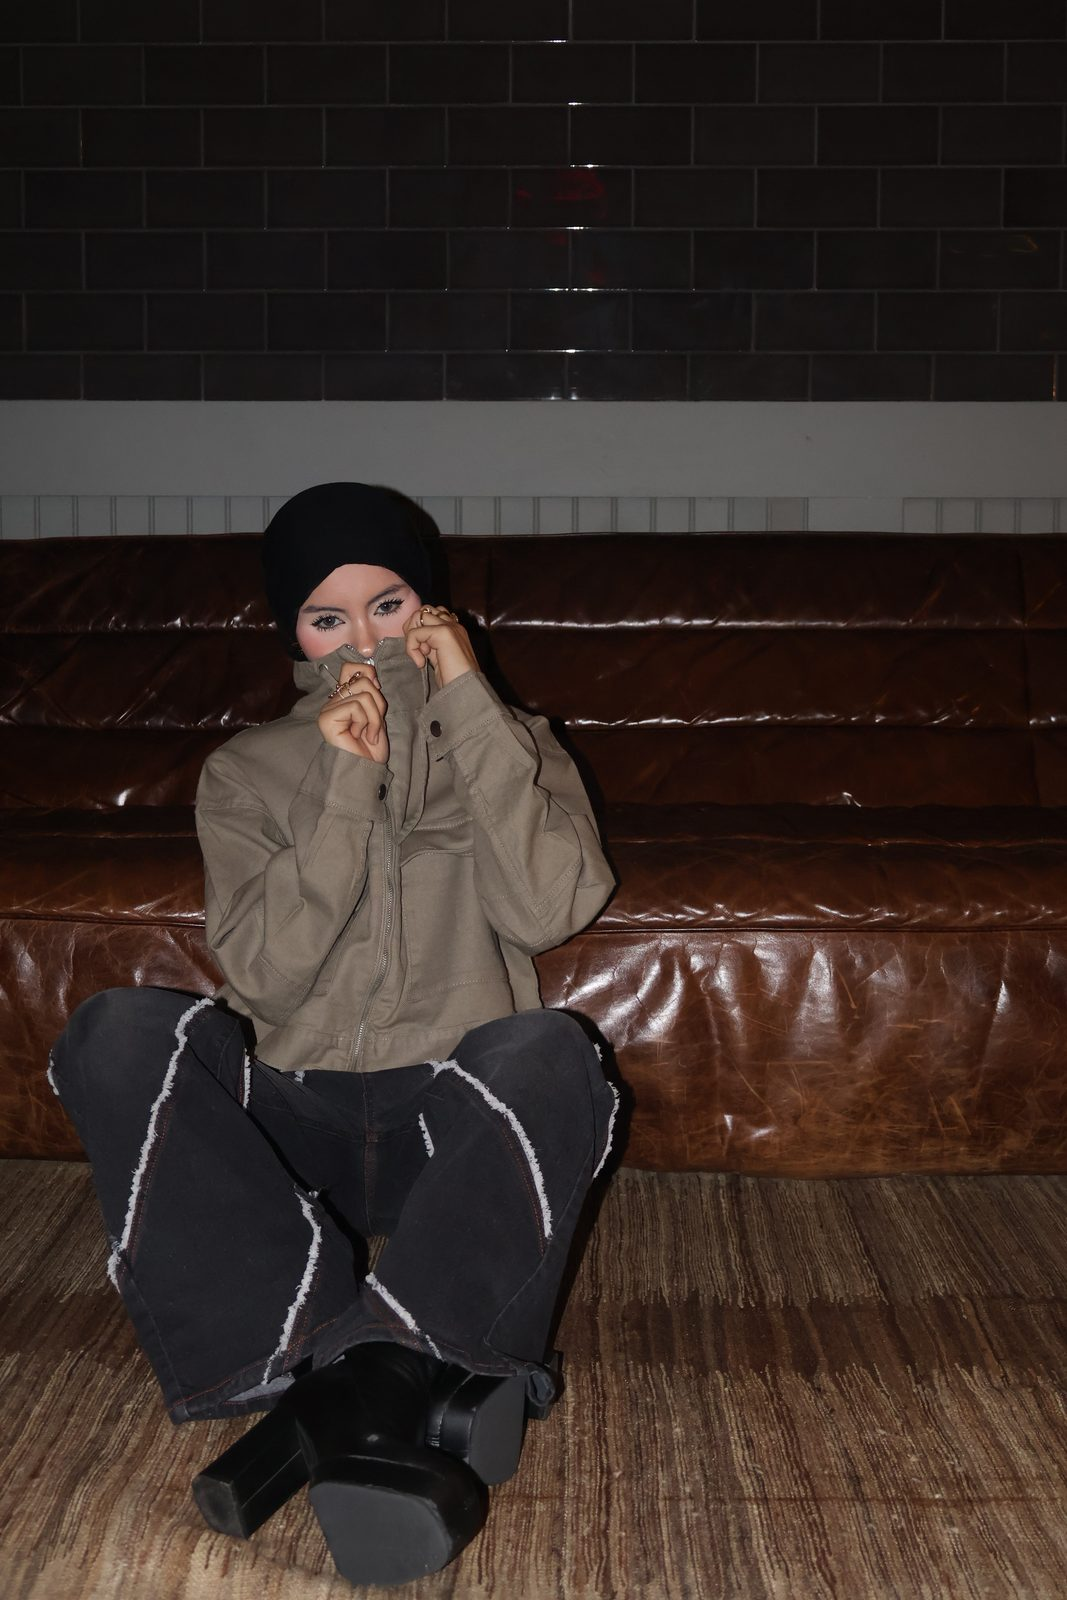
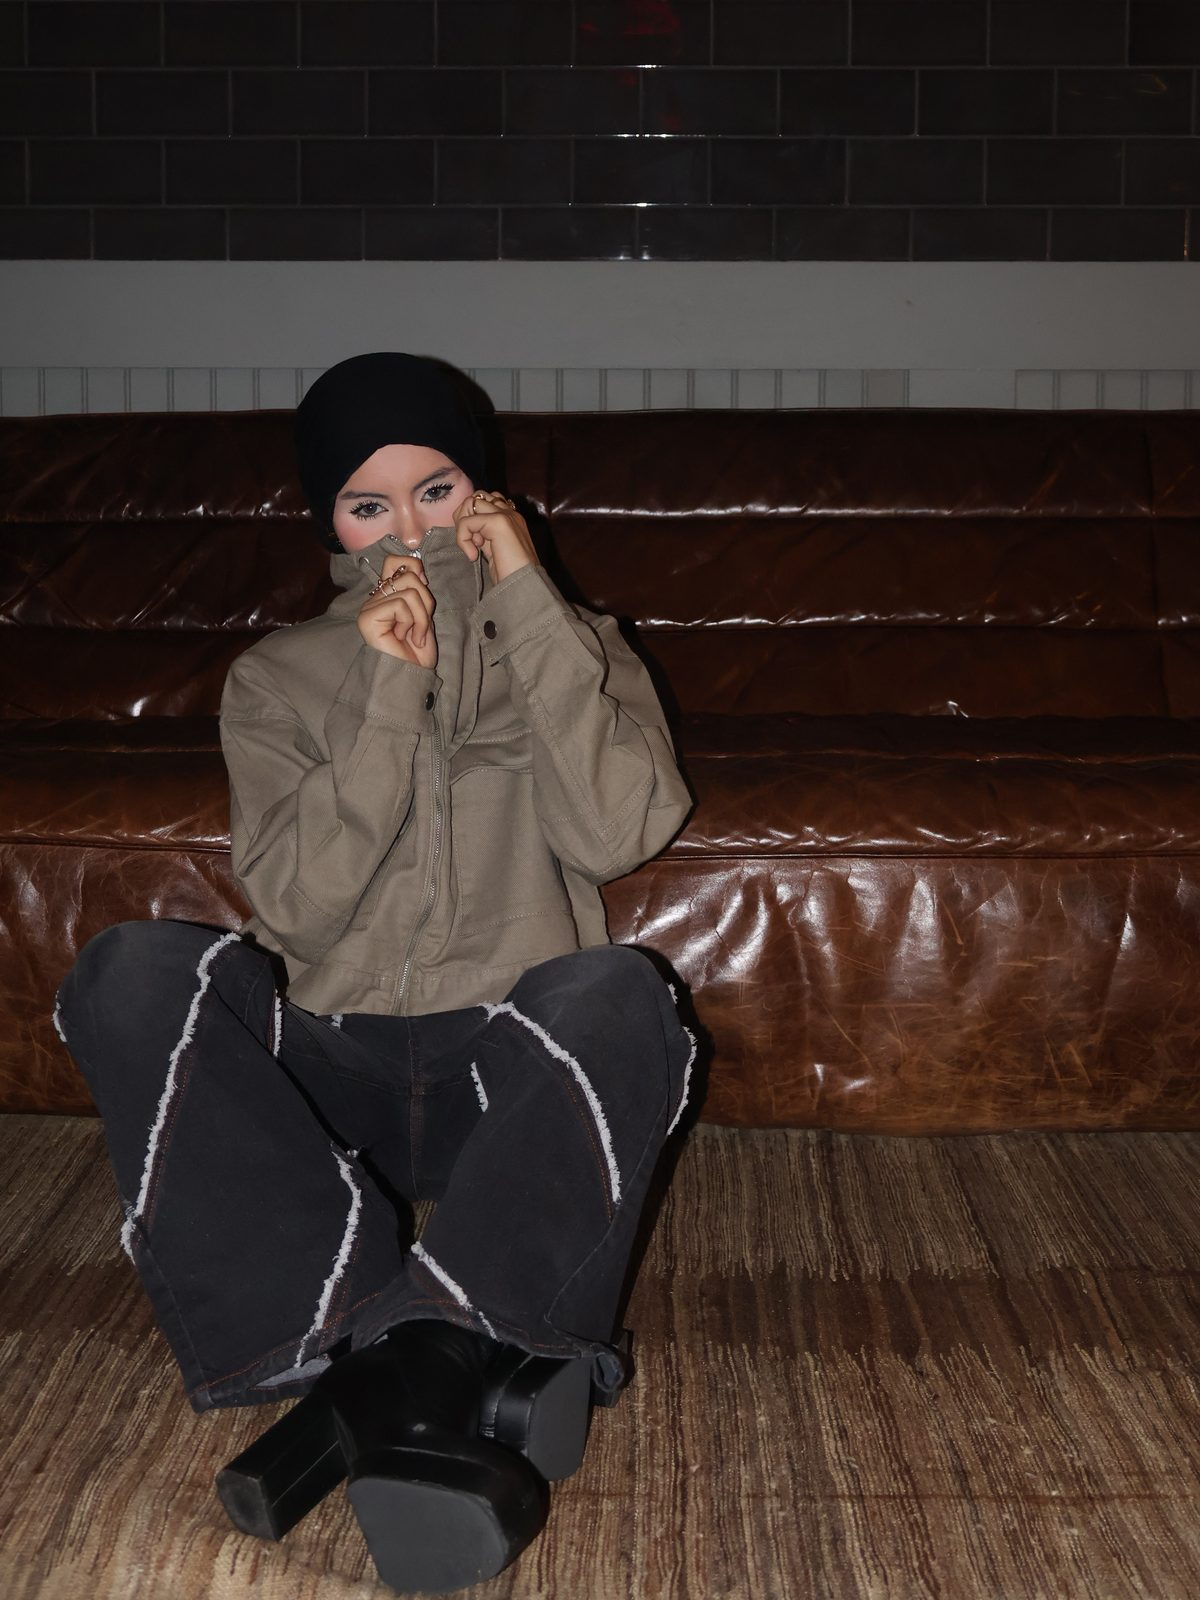
Home carousel: every photo exactly 3:4
Crop IMG_0447 to 3:4 (subject kept centered), trim two Pull&Bear photos
by a pixel to exact 3:4, and keep the 3:4 shape on phones so photos no
longer stretch to the column height.

Claude-Session: https://claude.ai/code/session_012XeHsNCsxQhTQRDgts5yE7

diff --git a/src/data/home.ts b/src/data/home.ts
@@ -1,6 +1,6 @@
 // Photos for the scrolling column on the home page (files in public/home/).
 // Order rotates: MAD Fashion (Madrid) -> Pull&Bear editorial -> NYU FBA show.
-// All photos are cropped 3:4 with the subject centered, except IMG_0447.
+// Every photo is exactly 3:4, cropped with the subject centered.
 
 export type Panel =
   | { type: "image"; src: string; alt: string; width?: number; height?: number }
@@ -8,8 +8,8 @@ export type Panel =
 
 export const PANELS: Panel[] = [
   { type: "image", src: "/home/mg-2502.jpg", alt: "MAD Fashion show, Madrid: model in an oversized black leather jacket", width: 1200, height: 1600 },
-  { type: "image", src: "/home/pullbear-25.jpg", alt: "Pull&Bear editorial: tan washed jacket with wide leg jeans", width: 1015, height: 1354 },
-  { type: "image", src: "/home/img-0447.jpg", alt: "NYU FBA fashion show: model seated on a leather sofa in an olive jacket", width: 1067, height: 1600 },
+  { type: "image", src: "/home/pullbear-25.jpg", alt: "Pull&Bear editorial: tan washed jacket with wide leg jeans", width: 1014, height: 1352 },
+  { type: "image", src: "/home/img-0447.jpg", alt: "NYU FBA fashion show: model seated on a leather sofa in an olive jacket", width: 1200, height: 1600 },
 
   { type: "image", src: "/home/mg-2693.jpg", alt: "MAD Fashion show, Madrid: model in a cropped sage green jacket", width: 1200, height: 1600 },
   { type: "image", src: "/home/pullbear-34.jpg", alt: "Pull&Bear editorial: pink cropped jacket and mini skirt set", width: 1008, height: 1344 },
@@ -20,5 +20,5 @@ export const PANELS: Panel[] = [
   { type: "image", src: "/home/img-0594.jpg", alt: "NYU FBA fashion show: black jacket with embroidered calligraphy", width: 1200, height: 1600 },
 
   { type: "image", src: "/home/mg-2799.jpg", alt: "MAD Fashion show, Madrid: two models in washed denim", width: 1200, height: 1600 },
-  { type: "image", src: "/home/pullbear-41.jpg", alt: "Pull&Bear editorial: washed gray overshirt with matching shorts", width: 1045, height: 1392 },
+  { type: "image", src: "/home/pullbear-41.jpg", alt: "Pull&Bear editorial: washed gray overshirt with matching shorts", width: 1044, height: 1392 },
 ];

diff --git a/src/components/react/VerticalCarousel.tsx b/src/components/react/VerticalCarousel.tsx
@@ -85,7 +85,7 @@ const VerticalCarousel: React.FC<VerticalCarouselProps> = ({
                 loading={i < 2 ? "eager" : "lazy"}
                 decoding="async"
                 draggable={false}
-                className="w-auto h-auto object-contain max-h-[52vh] md:max-h-[80vh] max-w-full"
+                className="self-center w-full h-auto aspect-[3/4] object-cover md:w-auto md:aspect-auto md:max-h-[80vh] max-w-full"
               />
             ) : (
               <div
